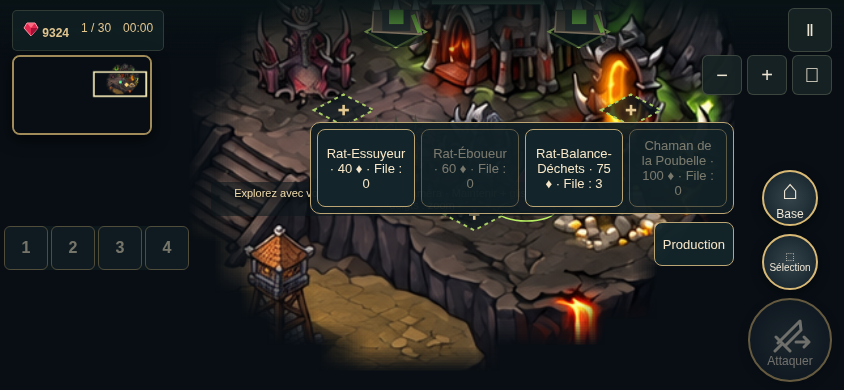
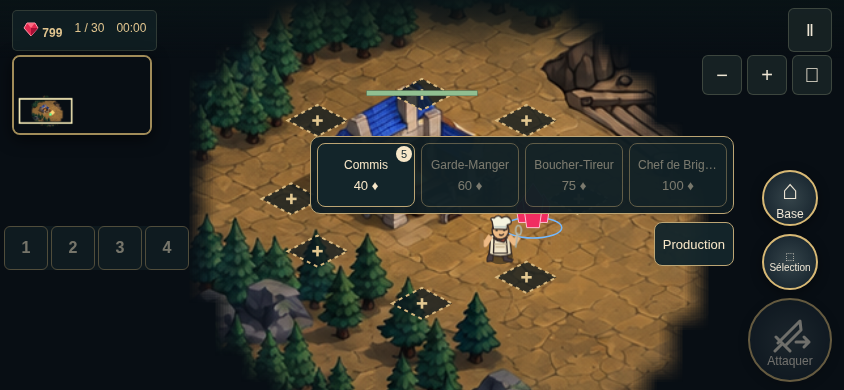
Codex : #77 Bouton « Production » : produire sans aller sur chaque bâtiment

diff --git a/public/game/production.js b/public/game/production.js
@@ -1,18 +1,15 @@
-import { CendreSim as Sim } from './sim.js';
+import { CendreSim as Sim, canRecruit } from './sim.js';
 
 export function productionModel(state, player) {
   const queue = state.queues[player];
-  const population = state.units.filter((unit) => unit.team === player).length + queue.length;
   return ['commis', 'knight', 'archer', 'mage'].map((type) => {
     const stats = Sim.stats(type, player);
-    const producers = Sim.producers(state, player, type);
     return {
       type,
       name: stats.name,
       cost: stats.cost,
       queued: queue.filter((job) => job.type === type).length,
-      disabled: state.rubies[player] < stats.cost || population >= 30 ||
-        !producers.some((producer) => queue.filter((job) => job.producerId === producer.id).length < 8),
+      disabled: !canRecruit(state, player, type),
     };
   });
 }
@@ -33,11 +30,21 @@ export function initProduction(api) {
   for (const type of ['commis', 'knight', 'archer', 'mage']) {
     const button = document.createElement('button');
     button.dataset.type = type;
+    const name = document.createElement('span');
+    name.className = 'productionName';
+    const cost = document.createElement('span');
+    cost.className = 'productionCost';
+    const badge = document.createElement('span');
+    badge.className = 'productionBadge';
+    badge.hidden = true;
+    button.append(name, cost, badge);
+    button.title = 'Appui long : recruter jusqu’à 5 unités';
     let press = null;
     let suppressClick = false;
     function cancel() {
       if (press) clearTimeout(press.timer);
       press = null;
+      button.classList.remove('productionHolding');
     }
     button.addEventListener('pointerdown', (event) => {
       if (press || event.button !== 0 || button.disabled || !api.enabled()) return;
@@ -45,10 +52,12 @@ export function initProduction(api) {
       suppressClick = false;
       button.setPointerCapture(event.pointerId);
       press = { id: event.pointerId, x: event.clientX, y: event.clientY };
+      button.classList.add('productionHolding');
       press.timer = setTimeout(() => {
         suppressClick = true;
         cancel();
         if (bar.hidden || root.hidden || !api.enabled()) return;
+        api.vibrate();
         for (let index = 0; index < 5; index++) api.command({ kind: 'recruit', type });
       }, 450);
     });
@@ -81,9 +90,16 @@ export function initProduction(api) {
       }
       for (const item of productionModel(state, player)) {
         const button = buttons.get(item.type);
-        button.disabled = item.disabled || !api.enabled();
-        button.textContent = `${item.name} · ${item.cost} ♦ · File : ${item.queued}`;
-        button.title = 'Appui long : recruter jusqu’à 5 unités';
+        const disabled = item.disabled || !api.enabled();
+        const signature = JSON.stringify([item.name, item.cost, item.queued, disabled]);
+        if (button.dataset.signature === signature) continue;
+        button.dataset.signature = signature;
+        button.disabled = disabled;
+        button.querySelector('.productionName').textContent = item.name;
+        button.querySelector('.productionCost').textContent = `${item.cost} ♦`;
+        const badge = button.querySelector('.productionBadge');
+        badge.textContent = String(item.queued);
+        badge.hidden = item.queued <= 0;
       }
     },
   };

diff --git a/public/game/sim.js b/public/game/sim.js
@@ -392,22 +392,24 @@ function construct(s, team, type, baseId, slotId = null) {
   ensureSlots(s);
   return placeBuilding(s, team, type, baseId, slotId);
 }
-function recruit(s, type, team, producerId = null) {
+export function canRecruit(s, team, type, producerId = null) {
   s.queues ??= [[], []];
   if (s.winner !== null || !Object.hasOwn(TYPES, type)) return false;
   ensureSlots(s);
-  const cfg = stats(type, team),
-    q = s.queues[team],
-    options = producers(s, team, type).filter(
-      (p) =>
-        (!producerId || p.id === producerId) && q.filter((j) => j.producerId === p.id).length < 8,
-    );
-  if (
-    !options.length ||
-    s.rubies[team] < cfg.cost ||
-    s.units.filter((u) => u.team === team).length + q.length >= 30
-  )
-    return false;
+  const queue = s.queues[team];
+  return s.rubies[team] >= stats(type, team).cost &&
+    s.units.filter((unit) => unit.team === team).length + queue.length < 30 &&
+    producers(s, team, type).some((producer) =>
+      (!producerId || producer.id === producerId) &&
+      queue.filter((job) => job.producerId === producer.id).length < 8);
+}
+function recruit(s, type, team, producerId = null) {
+  if (!canRecruit(s, team, type, producerId)) return false;
+  const cfg = stats(type, team);
+  const q = s.queues[team];
+  const options = producers(s, team, type).filter((producer) =>
+    (!producerId || producer.id === producerId) &&
+    q.filter((job) => job.producerId === producer.id).length < 8);
   const workload = (p) =>
     q.filter((j) => j.producerId === p.id).reduce((n, j) => n + j.remaining, 0);
   options.sort((a, b) => workload(a) - workload(b));
@@ -1134,6 +1136,7 @@ export const CendreSim = {
   create,
   spawn,
   recruit,
+  canRecruit,
   order,
   patrol,
   build,

diff --git a/public/game/production.css b/public/game/production.css
@@ -38,7 +38,55 @@
 #productionBar button {
   flex: 1;
   min-height: 64px;
-  overflow-wrap: anywhere;
+  position: relative;
+  min-width: 0;
+  overflow: hidden;
+  isolation: isolate;
+}
+.productionName, .productionCost {
+  position: relative;
+  display: block;
+}
+.productionName {
+  font-size: 12px;
+  white-space: nowrap;
+  overflow: hidden;
+  text-overflow: ellipsis;
+}
+.productionCost {
+  margin-top: 6px;
+}
+.productionBadge {
+  position: absolute;
+  top: 2px;
+  right: 2px;
+  min-width: 16px;
+  height: 16px;
+  border-radius: 8px;
+  background: #f7e7c8;
+  color: #14252b;
+  font-size: 11px;
+  line-height: 16px;
+}
+.productionBadge[hidden] {
+  display: none;
+}
+#productionBar button::before {
+  content: "";
+  position: absolute;
+  inset: 0;
+  z-index: -1;
+  background: #bca57466;
+  transform: scaleX(0);
+  transform-origin: left;
+}
+#productionBar button.productionHolding::before {
+  animation: productionHold 450ms linear forwards;
+}
+@keyframes productionHold {
+  to {
+    transform: scaleX(1);
+  }
 }
 #productionBar button:disabled {
   opacity: 0.45;

diff --git a/public/game/game.js b/public/game/game.js
@@ -2144,4 +2144,5 @@ renderContextPanel();
 productionUI = initProduction({
   enabled: () => running && !paused,
   command: panelCommand,
+  vibrate: () => vibrateOrder(settings.vibration),
 });
